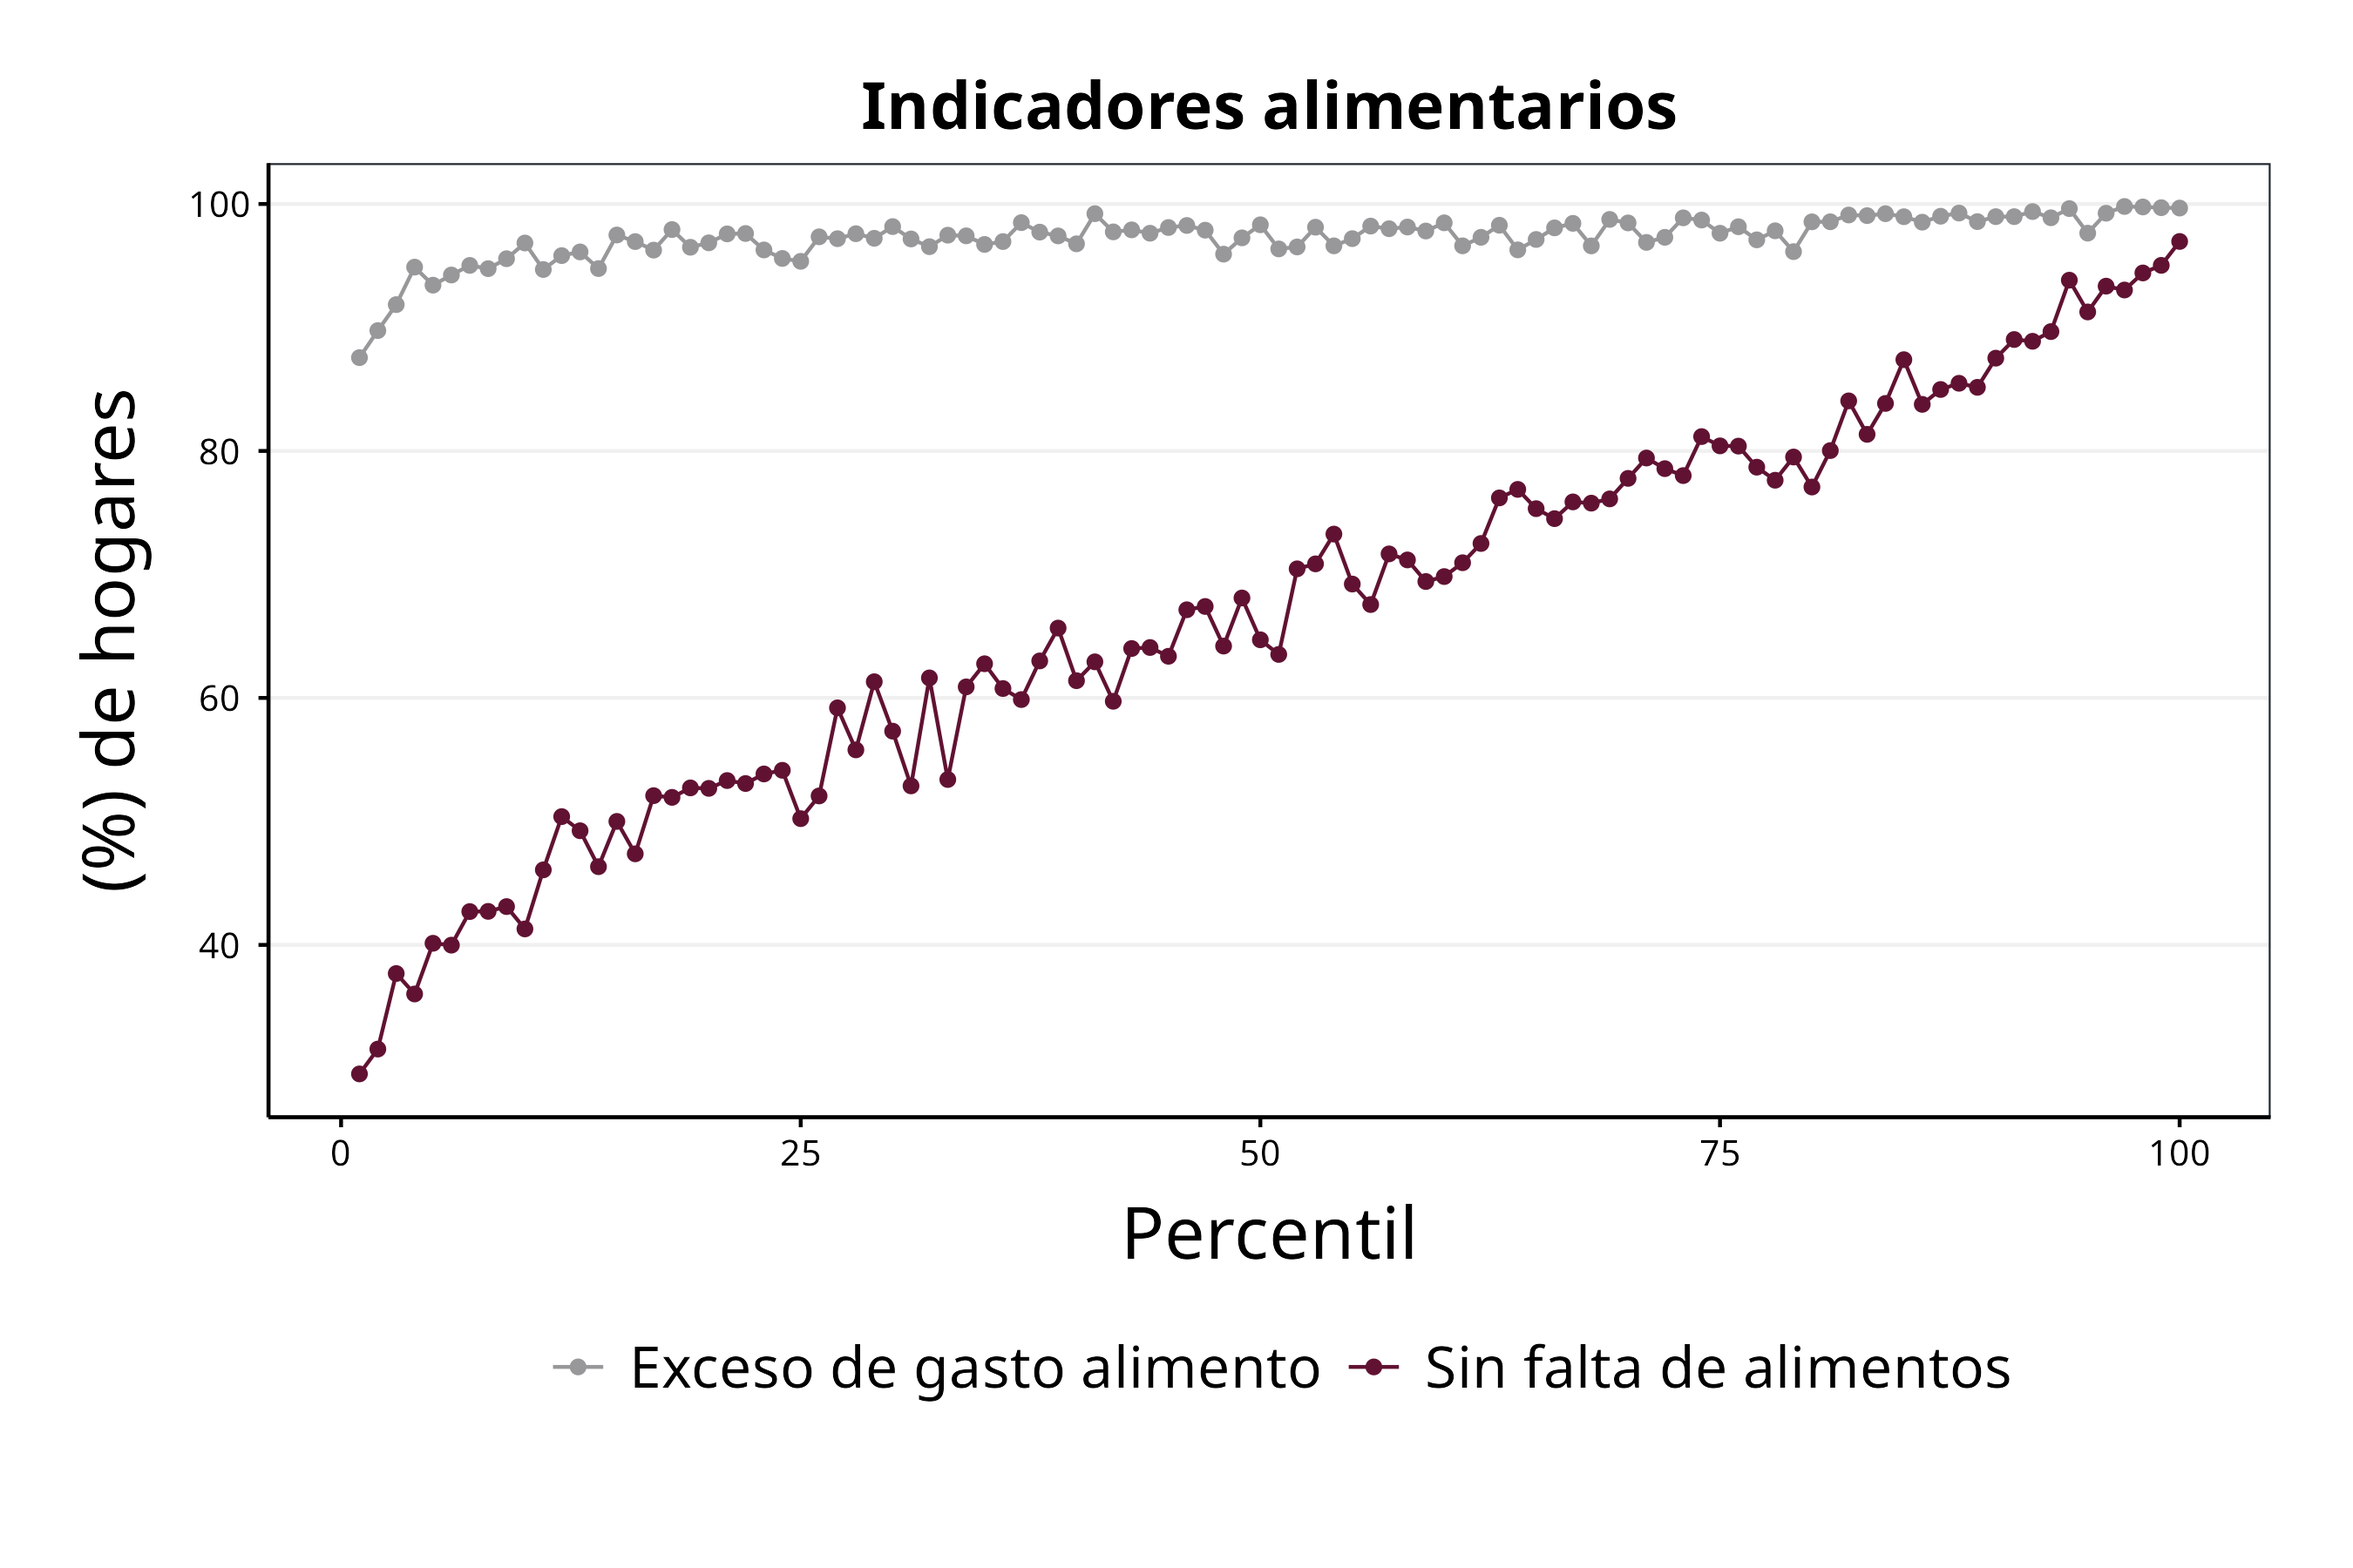
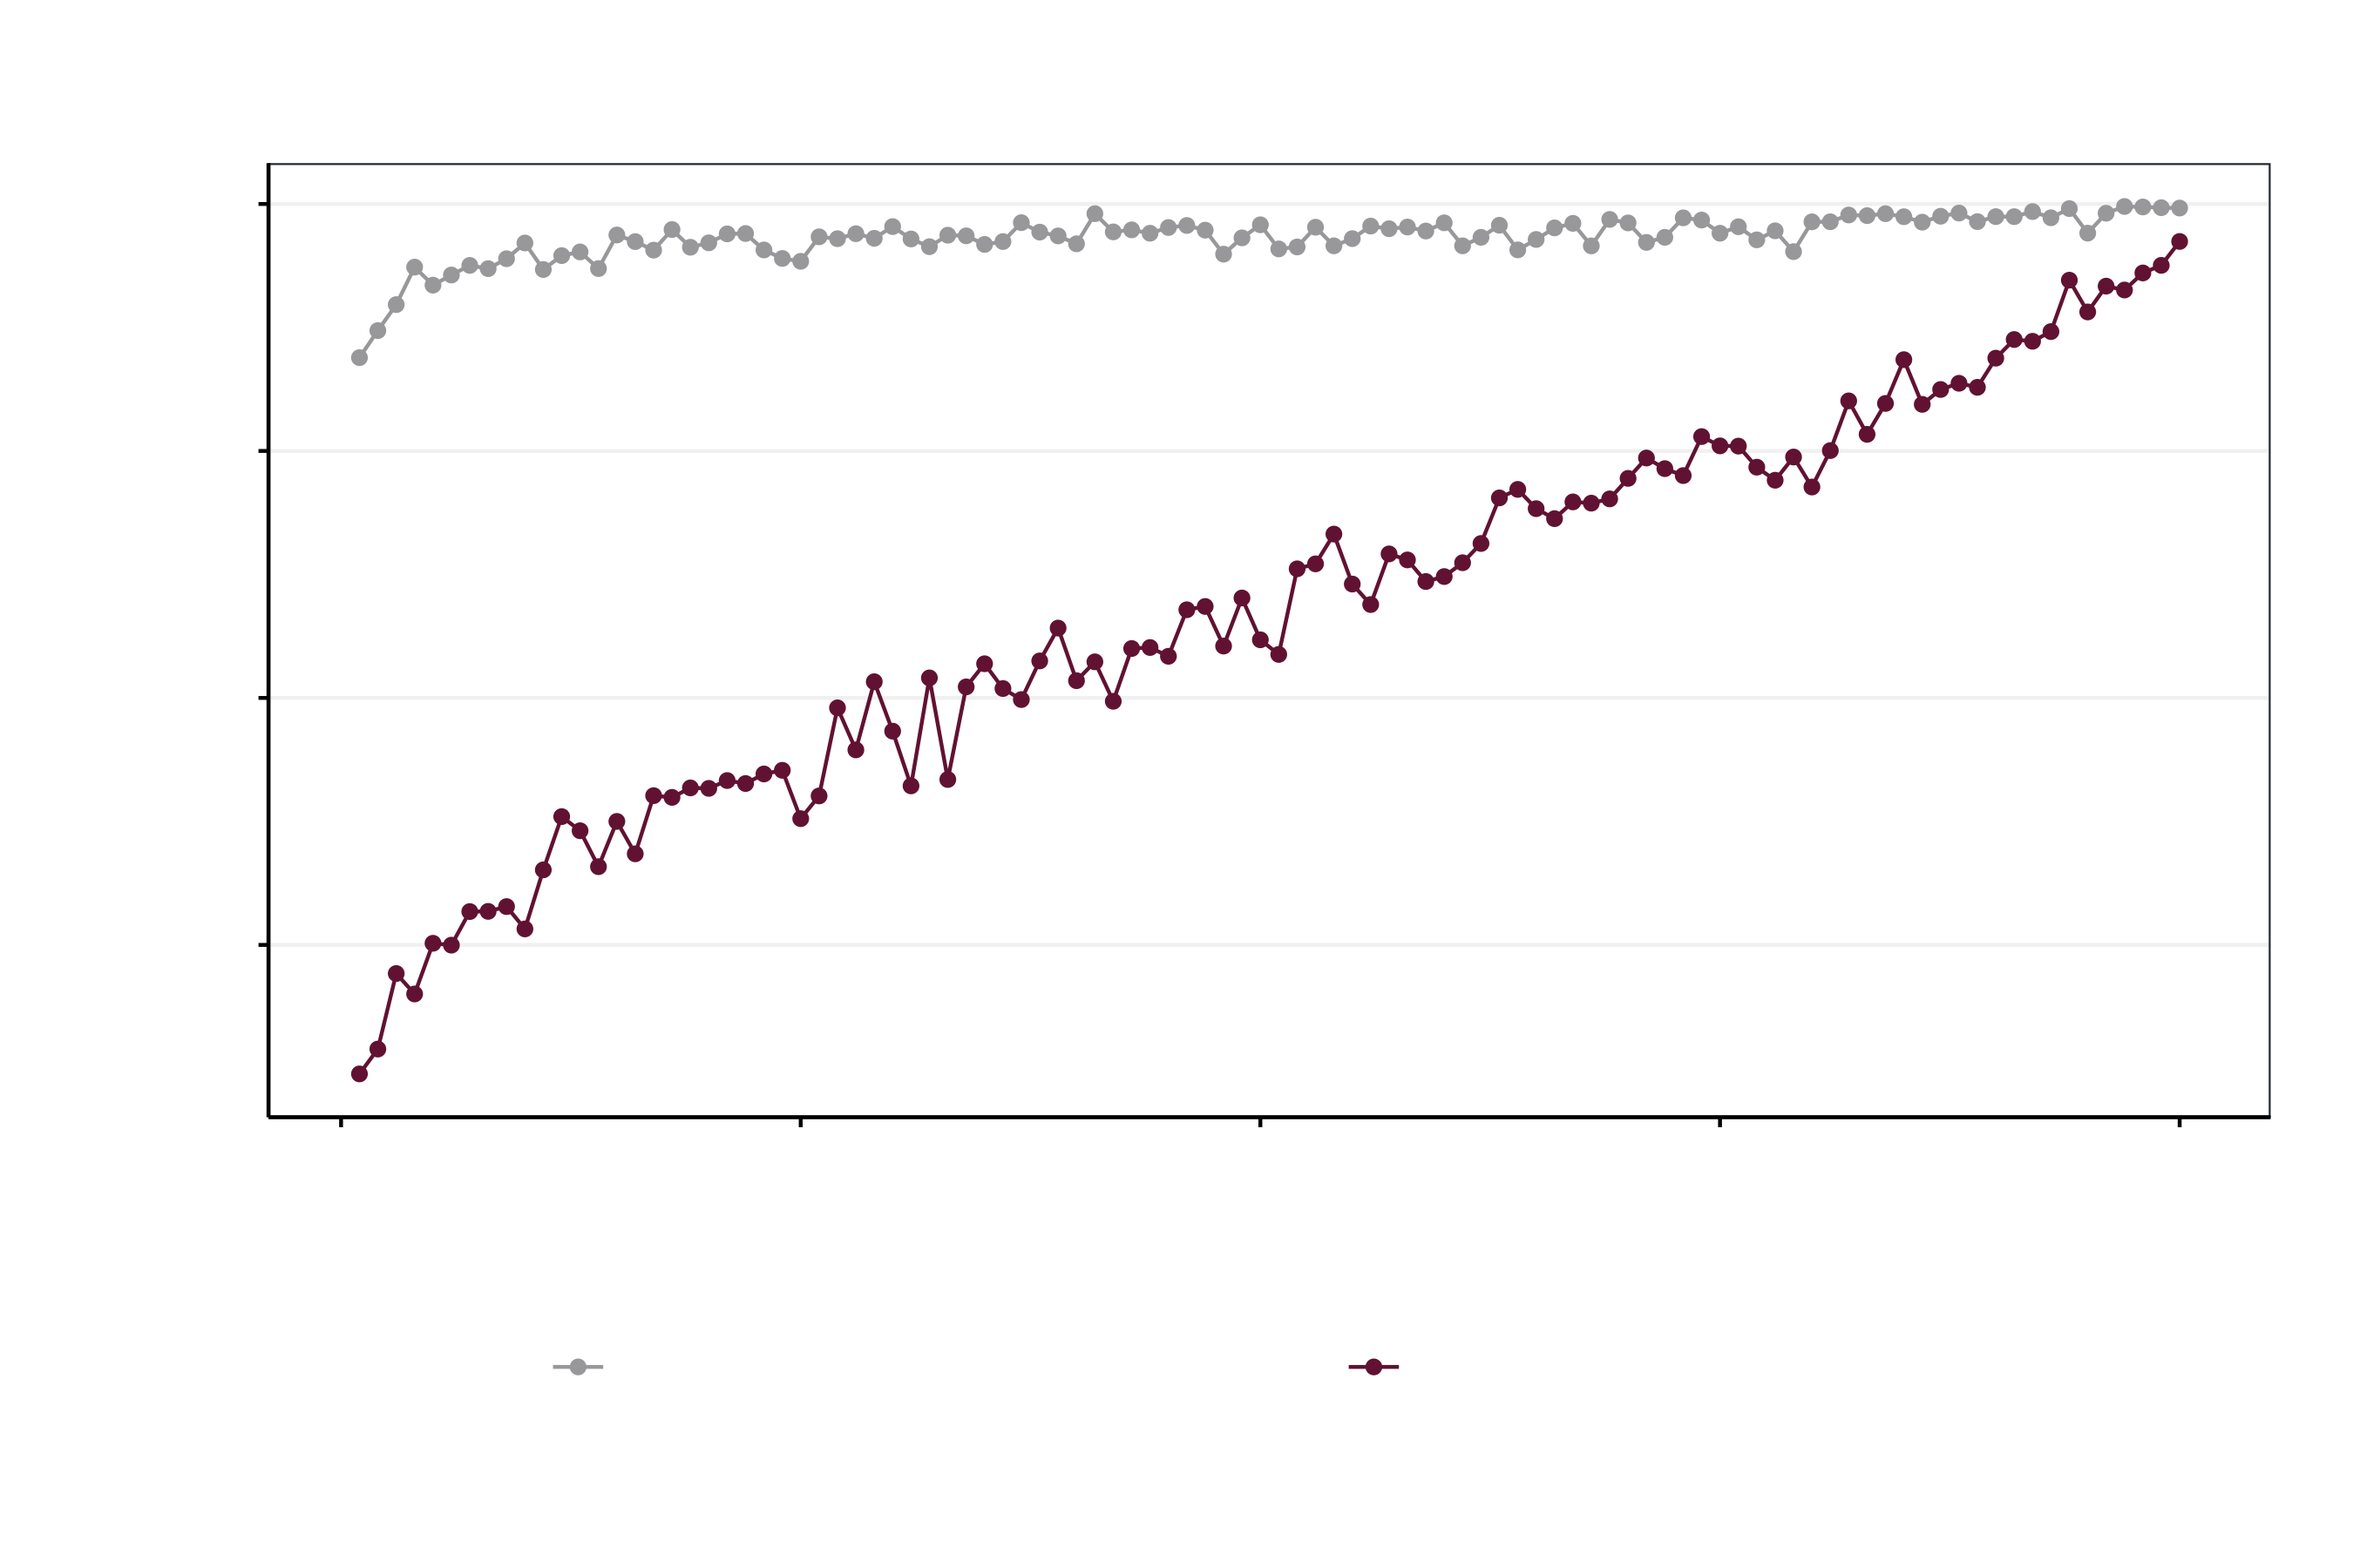
Se cambio el color del texto de las graficas para que se vea adecuadamente en el repositorio.

diff --git a/readme.md b/readme.md
@@ -52,7 +52,7 @@ the living wage, such as food, housing, and non-food-non-housing costs.
 
 ## Repository Structure
 
-The repository is organized into the following folders and files:
+The repository is organized into the following folders:
 
 - `data/`: This folder contains the raw data used for the analysis,
   including microdata from national surveys and other relevant datasets.
@@ -90,12 +90,27 @@ Anker Methodology, which consists of several steps:
     government. The cost of the food basket is calculated using the
     prices of food items reported in the ENIGH data at the national,
     state, urban and rural levels plus a 20% extra considering the cost
-    of waste(5%) and of food diversity (15%).
+    of waste (5%) and of food diversity (15%).
 
 The selection of the reference quintile is based on a set of
+*Indicadores de Bienestar* developed to identify households with
+adequate conditions in the dimensions of housing, food, basic services,
+and education. The percentile of the distribution of current per capita
+income to which each household belongs was then identified by ordering
+households from lowest to highest and calculating the proportion of
+households that meet the *Indicador de Bienestar* for each percentile.
+When graphing the income distribution against the calculated average,
+the indicators that showed a clear positive relationship with current
+income were selected. In other words, priority was given to those with
+low incidence in the left tail and high incidence in the right tail of
+the distribution.
 
-![Food basket cost by state and urban/rural
-areas](graphs/indicadores_bienestar.png)
+The next graphs shows the indicator for the food dimension. In this
+particular case, the indicator *Sin falta de alimentos* tracks the
+percentage of households in each percentile that reported having
+experience a lack of food.
+
+![Food wellbeing indicators](graphs/indicadores_alimentarios.png)
 
 3.  **Estimating the cost of housing**: The cost of housing is estimated
     using the ENIGH data with a quantile regression approach to estimate
@@ -110,14 +125,21 @@ areas](graphs/indicadores_bienestar.png)
 
 4.  **Estimating the cost of non-food-non-housing (NFNH) expenses**: The
     cost of NFNH expenses is estimated using the results of the housing
-    cost. Using ENIGH we plot the relationship between the housing
-    expenditure and the total expenditure probability distribution and
-    we select the percentile that corresponds to the one selected for
-    the housing cost estimation. This approach is based on the
-    assumption that the NFNH expenses are correlated with housing
-    expenses, which is a common assumption in living wage estimation
-    methodologies. The cost of NFNH expenses is estimated at the
-    national, state, urban and rural levels.
+    cost. Using ENIGH, we plot the relationship between housing
+    expenditure and the total expenditure probability distribution, and
+    we select the percentile that corresponds to the one chosen for the
+    housing cost estimation. The average expenditure of the next five
+    percentiles above the selected cutoff is then calculated and used as
+    the benchmark for NFNH expenses. The next graph shows the plot for
+    urban areas at the national level.
+
+![Relation between total expenses probability distribution and housing
+expenses](graphs/relacion/nacional/urbano_nacional.png)
+
+This approach is based on the assumption that the NFNH expenses are
+correlated with housing expenses, which is a sensible assumption in
+living wage estimation methodologies. The cost of NFNH expenses is
+estimated at the national, state, urban and rural levels.
 
 5.  **Calculating the living wage**: The living wage is calculated by
     summing the costs of food, housing, and NFNH expenses for the
@@ -128,18 +150,6 @@ state and urban/rural areas, and two for the national level, one for
 urban and one for rural areas.
 
 ## Results
-
-``` r
-pacman:::p_load(
-    data.table,
-    tidyverse,
-    dplyr
-)
-
-living_wage <- fread("salario_digno.csv")
-
-glimpse(living_wage)
-```
 
     Rows: 66
     Columns: 11
